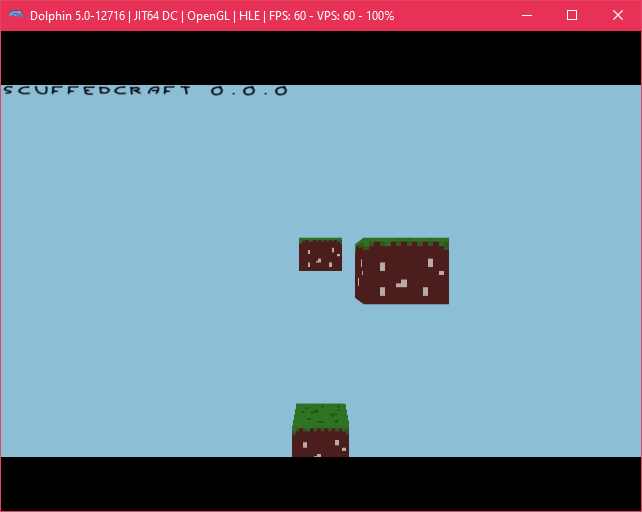
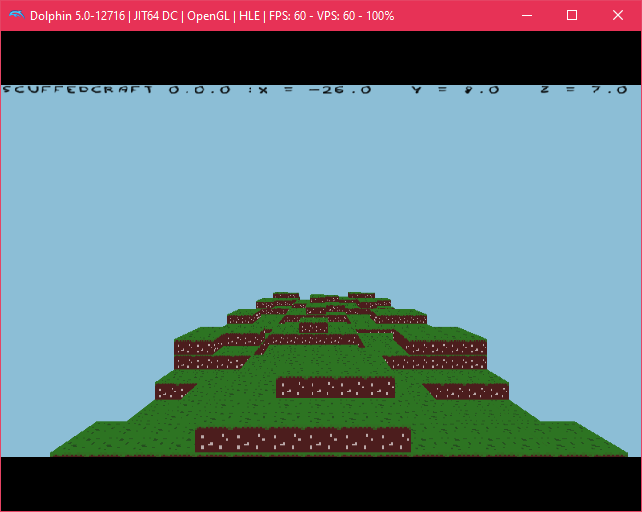
Added chunk rendering, need to optimise model gen

diff --git a/source/RenderManager.c b/source/RenderManager.c
@@ -7,22 +7,28 @@
 #include "RenderManager.h"
 #include "gfx/albedo_cube.h"
 
-
+#include <math.h>
 
 //=======================================================================================
 //= Global variables                                                                    =
 //=======================================================================================
 //----------------------------  x1     x2     x3     x4     y1     y2     y3     y4     z1     z2     z3    z4
-struct Face_VT Face_Cube_N = {-1.0f,  1.0f,  1.0f, -1.0f,  1.0f,  1.0f, -1.0f, -1.0f,  1.0f,  1.0f,  1.0f,  1.0f};
-struct Face_VT Face_Cube_S = { 1.0f, -1.0f, -1.0f,  1.0f,  1.0f,  1.0f, -1.0f, -1.0f, -1.0f, -1.0f, -1.0f, -1.0f};
-struct Face_VT Face_Cube_T = {-1.0f,  1.0f,  1.0f, -1.0f,  1.0f,  1.0f,  1.0f,  1.0f,  1.0f,  1.0f, -1.0f, -1.0f};
-struct Face_VT Face_Cube_B = {-1.0f,  1.0f,  1.0f, -1.0f, -1.0f, -1.0f, -1.0f, -1.0f,  1.0f,  1.0f, -1.0f, -1.0f};
-struct Face_VT Face_Cube_E = {-1.0f, -1.0f, -1.0f, -1.0f,  1.0f,  1.0f, -1.0f, -1.0f, -1.0f,  1.0f,  1.0f, -1.0f};
-struct Face_VT Face_Cube_W = { 1.0f,  1.0f,  1.0f,  1.0f,  1.0f,  1.0f, -1.0f, -1.0f,  1.0f, -1.0f, -1.0f,  1.0f};
+struct Face_VT Face_Cube_N = {-0.5f,  0.5f,  0.5f, -0.5f,  0.5f,  0.5f, -0.5f, -0.5f,  0.5f,  0.5f,  0.5f,  0.5f};
+struct Face_VT Face_Cube_S = { 0.5f, -0.5f, -0.5f,  0.5f,  0.5f,  0.5f, -0.5f, -0.5f, -0.5f, -0.5f, -0.5f, -0.5f};
+struct Face_VT Face_Cube_T = {-0.5f,  0.5f,  0.5f, -0.5f,  0.5f,  0.5f,  0.5f,  0.5f,  0.5f,  0.5f, -0.5f, -0.5f};
+struct Face_VT Face_Cube_B = {-0.5f,  0.5f,  0.5f, -0.5f, -0.5f, -0.5f, -0.5f, -0.5f,  0.5f,  0.5f, -0.5f, -0.5f};
+struct Face_VT Face_Cube_E = {-0.5f, -0.5f, -0.5f, -0.5f,  0.5f,  0.5f, -0.5f, -0.5f, -0.5f,  0.5f,  0.5f, -0.5f};
+struct Face_VT Face_Cube_W = { 0.5f,  0.5f,  0.5f,  0.5f,  0.5f,  0.5f, -0.5f, -0.5f,  0.5f, -0.5f, -0.5f,  0.5f};
 
-//-----------------------------x1    x2     x3   x4    y1    y2    y3    y4
+//-----------------------------x1    x2     x3   x4    y1    y2    y3    y4  
 struct Face_TX grass_Tex_T = {0.0f, 1.0f, 1.0f, 0.0f, 0.0f, 0.0f, 0.5f, 0.5f}; //Top grass texture
 struct Face_TX grass_Tex_A = {0.0f, 1.0f, 1.0f, 0.0f, 0.5f, 0.5f, 1.0f, 1.0f}; //Grass textures on the sides and also bottom
+
+int CHUNK_X   = 16;
+int CHUNK_Y   = 32;
+int CHUNK_Z   = 16;
+int CHUNK_XY  = 16 * 32;
+int CHUNK_XYZ = 16 * 32 * 16;
 
 
 
@@ -130,6 +136,119 @@ void renderModel(struct Model model )
 		face = face->next;
 	}
 	GX_End();
+}
+
+
+//=======================================================================================
+//= Chunk and model handeling                                                           =
+//=======================================================================================
+
+struct Model createChunkModel(u8 *chunkData)
+{
+	//for now we only have a grass texture so if we come accross an integer that isn't 
+	//0 we add the 6 sets of faces to the chunk model to represent the grass block. 
+	struct Model model;
+	model.tex = GRRLIB_LoadTexture(albedo_cube);
+	for (size_t x = 0; x < CHUNK_X; x++)
+	{
+		for (size_t y = 0; y < CHUNK_Y; y++)
+		{
+			for (size_t z = 0; z < CHUNK_Z; z++)
+			{
+				//have we found a block that isn't air?
+				if(chunkData[(z * CHUNK_Y * CHUNK_X) + (y * CHUNK_X) + x] != 0)
+				{
+					//for now add every face to the model, in the future only add the 
+					//blocks that are touching air
+					addFaceToModel(&model, createTranslatedFace(Face_Cube_T, grass_Tex_T, x, y, z));
+					addFaceToModel(&model, createTranslatedFace(Face_Cube_B, grass_Tex_A, x, y, z));
+					addFaceToModel(&model, createTranslatedFace(Face_Cube_N, grass_Tex_A, x, y, z));
+					addFaceToModel(&model, createTranslatedFace(Face_Cube_S, grass_Tex_A, x, y, z));
+					addFaceToModel(&model, createTranslatedFace(Face_Cube_E, grass_Tex_A, x, y, z));
+					addFaceToModel(&model, createTranslatedFace(Face_Cube_W, grass_Tex_A, x, y, z));
+				}
+			}
+			
+		}
+		
+	}
+	return model;
+}
+
+struct Chunk createWaveyChunk(int baseX, int baseZ)
+{
+	//reserve space for the chunk data
+	struct Chunk chunk;
+	chunk.baseX = baseX;
+	chunk.baseZ = baseZ;
+	chunk.chunkData = malloc(CHUNK_XYZ * sizeof(u8));
+	//Take the base X,Z coordinate, so that we have the global positions.
+	//translate the global X,Z coordinate to a some height. with some height function
+	for (size_t x = 0; x < CHUNK_X; x++)
+	{
+		for (size_t z = 0; z < CHUNK_Z; z++)
+		{
+			//use a height function between 0 and 20
+			int height = (int)(2 * (sin((baseX + x) / 2) * cos((baseZ + z) / 2) + 1));
+			//now for every y in this xz collumn either make it empty or set.
+			for (size_t y = 0; y < CHUNK_Y; y++)
+			{
+				if(y <= height)
+				{
+					chunk.chunkData[z * CHUNK_XY + y * CHUNK_X + x] = 1;
+				}
+				else
+				{
+					{
+						chunk.chunkData[z * CHUNK_XY + y * CHUNK_X + x] = 0;
+					}
+				}	
+			}
+		}
+	}
+
+	//now turn this data into a model
+	chunk.terrain = createChunkModel(chunk.chunkData);
+	return chunk;
+	 
+}
+
+void renderChunk(struct Chunk chunk)
+{
+	//translate the chunk to it's base point and then render it from there
+	//will be expanded with other chunk functionality
+	GRRLIB_ObjectView(chunk.baseX, 0, chunk.baseZ, 0, 0, 0, 1, 1, 1);
+	renderModel(chunk.terrain);
+}
+
+
+
+
+
+
+
+
+//Just testing functions at this point in time
+//generate a test model
+u8 *createTestChunkID()
+{
+	u8 *chunkData = malloc(CHUNK_X * CHUNK_Y * CHUNK_Z * sizeof(u8));
+	//make a flat plane 
+	for (size_t i = 0; i < CHUNK_X * CHUNK_Y * CHUNK_Z; i++)
+	{
+		chunkData[i] = 0;
+	}
+	for (size_t x = 0; x < CHUNK_X; x++)
+	{
+		for (size_t z = 0; z < CHUNK_Z; z++)
+		{
+			chunkData[(z * CHUNK_Y * CHUNK_X) + (0 * CHUNK_X) + x] = 1;
+		}
+		
+	}
+	
+	return chunkData;
+	
 }
 
 //Create a test cube by adding one face at a time. 

diff --git a/source/RenderManager.h b/source/RenderManager.h
@@ -13,12 +13,14 @@
 //= Start the file with the structure definitions                                       =
 //=======================================================================================
 
-//A model is a linked list of faces, this is because a model can be exapanded during its
-//creation, for instance when we take a chunk's representation and turn it into a model
-//we add one face at a time. To this end a model is made as a linked list of faces, with
-//a texture object. A face contains a list of vertices and texture coordinates and a 
-//pointer to the next one. Then we assume for now that different types of game objects
-//will have the information to correctly translate the object 
+//A model is made up of a list of faces and a texture. a face is made up of its vertex 
+//coordinates and its texture coordinates. The method we're aiming for here is to render 
+//a model one face at a time. the local to world translation needs to be applied to the
+//model or else it won't be placed into the world properly at all. a model is a linked 
+//list instead of statically allocated, this is because when we create a model for the 
+//chunk it can expand in size.
+
+//Vertex points for the Face
 struct Face_VT
 {
 	//cordinates are listed clockwise
@@ -26,25 +28,46 @@ struct Face_VT
 	f32 y1, y2, y3, y4;
 	f32 z1, z2, z3, z4;
 };
-
+//Texture coordinates for the Face
 struct Face_TX
 {
 	f32 x1, x2, x3, x4;
 	f32 y1, y2, y3, y4;
 };
-
+//A Linked list element representing this face of the model
 struct Face{
 	struct Face_VT vt;
 	struct Face_TX tx;
 	struct Face *next;
 };
-
+//The struct representing a model, containing the starting node for the face and the size
+//and texture
 struct Model
 {
 	//Still need the size of the size of the model used for GRRLIB rendering
 	int size;
 	GRRLIB_texImg *tex;
 	struct Face *firstFace;
+};
+
+//A chunk will have (hopefully) two models, a Terain model and a water model, they're 
+//stored seperatley as they will have different rendering techniques. A model will have
+// an list of integers which represent the blocks stored within it. a chunk will also 
+//have a starting base point which will represent the bottom left corner of the chunk in
+// the XZ coordinate. that way translating from global to local coordinates is as simple
+// as subtract or add the base point.
+
+//A struct containting all the information required to render a chunk
+struct Chunk
+{
+	//Translation from local to global x coord
+	int baseX;
+	//Translation from local to global z coord
+	int baseZ;
+	//8bit int array representing the blocks in the chunk
+	u8 *chunkData;
+	//model representing the chunk.
+	struct Model terrain;
 };
 
 
@@ -64,14 +87,21 @@ extern struct Face_VT Face_Cube_S;
 extern struct Face_VT Face_Cube_E;
 extern struct Face_VT Face_Cube_W;
 
+//Constants that are used for chunk sizes.
+extern int CHUNK_X;
+extern int CHUNK_Y;
+extern int CHUNK_Z;
+//size of XY cuz it get calculated an awful lot
+extern int CHUNK_XY; 
+//Size of entire chunk cuz following same previous naming convention
+extern int CHUNK_XYZ;
 
 
 //=======================================================================================
-//= Function declarations from RenderManager.c                                          =
+//= Render                                                                              =
 //=======================================================================================
-
-//We'll start with this section which begins with the model and faces utility such as 
-//a "constructor" for faces. 
+//Render introduction
+//
 
 //This face generater is used to copy the prebuild cube face verticies and then place 
 //them in a relative position, this will be used primaraily in generating the chunk.
@@ -92,7 +122,35 @@ void dealocateModel(struct Model *model);
 //for now this section is primarily going to be support functions as well as some 
 //test functions. 
 void renderModel(struct Model model );
+
+//=======================================================================================
+//= Chunks                                                                              =
+//=======================================================================================
+//Chunk Introduction
+//Here's how a chunk works, you have a list of unsigned integers, it is a one dimensional
+// array which has it's structure implied using the chunk size variables. specifically 
+//it goes [z][y][x]. This list of integers represents the chunk data, an entry at x,y,z 
+//is the block ID at that coordinate, the x,y,z coordinate are loccal to the chunk data. 
+//To translate this globally the chunk has a translation point, which refers to the global 
+//point at the bottom top left. ie the chunk with translation point 0,0,0 will be the 
+//chunk to the bottom right of the origin.
+
+//Chunk functions
+
+//Take an integer list representing chunk data and transform it into a locally positioned model STILL TO BE OPTIMISED
+struct Model createChunkModel(u8 *chunkData);
+//Create a simple tester chunk that ins't flat and takes the chunk base location of the chunk into account.
+//Remove when we have a working noise generator function.
+struct Chunk createWaveyChunk(int baseX, int baseY);
+//Renders the chunk, added here instead of the regular render model because it'll be expanded
+void renderChunk(struct Chunk chunk);
+//Generate a flat chunk ID list, not a chunk in whole just the block data
+u8 *createTestChunkID();
+
+
+
+
 //make the model
 struct Model makeTestCube();
-//render the model
+//render the model to be replaced with a couple different types of render function.
 void renderTestCube(struct Model model, f32 param, f32 x, f32 y, f32 z);

diff --git a/source/Main.c b/source/Main.c
@@ -26,12 +26,16 @@
 //=====================================================================================
 int main() {
     float a=0;
-    int cubeZ=0;
 
     //Using GRRLib we can initialise the wii a lot easier and quicker, for example
     //the video mode object is already premade for us in within the library.
     GRRLIB_Init();
     WPAD_Init();
+
+    //Store the x,y,z coordinates of the lplayer are stored here.
+    f32 x = 0.0f;
+    f32 y = 2.0f;
+    f32 z = 13.0f;
 
     //we could using this opertunity to load all the textures since they're so small
     //and won't be disposing of them at any point, perhaps.
@@ -44,30 +48,50 @@ int main() {
     //voxel like
     GRRLIB_Settings.antialias = false;
     GRRLIB_SetBackgroundColour(0x8C, 0xBE, 0xD6, 0xFF);
-    GRRLIB_Camera3dSettings(0.0f,0.0f,13.0f, 0,1,0, 0,0,0);
+    GRRLIB_Camera3dSettings(x, y, z, 0, 1, 0, 0, 0, 0);
 
     //make our test model for now and test it
-    struct Model testCube = makeTestCube();
+    //struct Model testCube = makeTestCube();
+    //u8 *chunkData = createTestChunkID();
+    //struct Model testChunk = createChunkModel(chunkData);
+
+
+    struct Chunk chunk00 = createWaveyChunk(0,0);
+    struct Chunk chunk10 = createWaveyChunk(16,0);
+    struct Chunk chunkm10 = createWaveyChunk(-16,0);
+    
 
     while(1) {
         GRRLIB_2dMode();
         WPAD_ScanPads();
         if(WPAD_ButtonsDown(0) & WPAD_BUTTON_HOME) exit(0);
-        if(WPAD_ButtonsHeld(0) & WPAD_BUTTON_A) cubeZ++;
-        if(WPAD_ButtonsHeld(0) & WPAD_BUTTON_B) cubeZ--;
+        if(WPAD_ButtonsHeld(0) & WPAD_BUTTON_LEFT) z--;
+        if(WPAD_ButtonsHeld(0) & WPAD_BUTTON_RIGHT) z++;
+        if(WPAD_ButtonsHeld(0) & WPAD_BUTTON_DOWN) x--;
+        if(WPAD_ButtonsHeld(0) & WPAD_BUTTON_UP) x++;
+        if(WPAD_ButtonsHeld(0) & WPAD_BUTTON_A) y++;
+        if(WPAD_ButtonsHeld(0) & WPAD_BUTTON_B) y--;
 
-        //GRRLIB_Camera3dSettings(13.0f * sin(a),0.0f,5.0f * cos(a), 0,1,0, 0,0,0);
+        //GRRLIB_Camera3dSettings(x,y,z, 0, 1, 0, 90 * cos(a / 100), 0, 90 * sin(a / 100));
+        GRRLIB_Camera3dSettings(x,y,z, 0, 1, 0, x + 1, y, z);
         GRRLIB_3dMode(0.1,1000,70,0,0);
 
-        renderTestCube(testCube, a,  2,  0,  4);
-        renderTestCube(testCube, a,  0, -8,  0);
-        renderTestCube(testCube, a,  0,  1, -4);
-        
-        a+=1.0f;
+        //renderTestCube(testCube, a,  2,  0,  4);
+        //renderTestCube(testCube, a,  0, -8,  0);
+        //renderTestCube(testCube, a,  0,  1, -4);
+        //renderTestCube(testChunk, 0,0,0,0);
+        //renderTestCube(testChunk, 0, 16, 0, 16);
+        renderChunk(chunk00);
+        renderChunk(chunk10);
+        renderChunk(chunkm10);
+
+
+        //a+=1.0f;
 
         // Switch To 2D Mode to display text
         GRRLIB_2dMode();
-        GRRLIB_Printf(0, 1, tex_font, 0x000000FF, 1, "SCUFFEDCRAFT 0.0.0");
+        //print the debug version and the x y z corrdinates
+        GRRLIB_Printf(0, 1, tex_font, 0x000000FF, 0.8, "SCUFFEDCRAFT 0.0.0 :X = %0.1f   Y = %0.1f   Z = %0.1f", x, y, z);
 
         GRRLIB_Render();
     }
